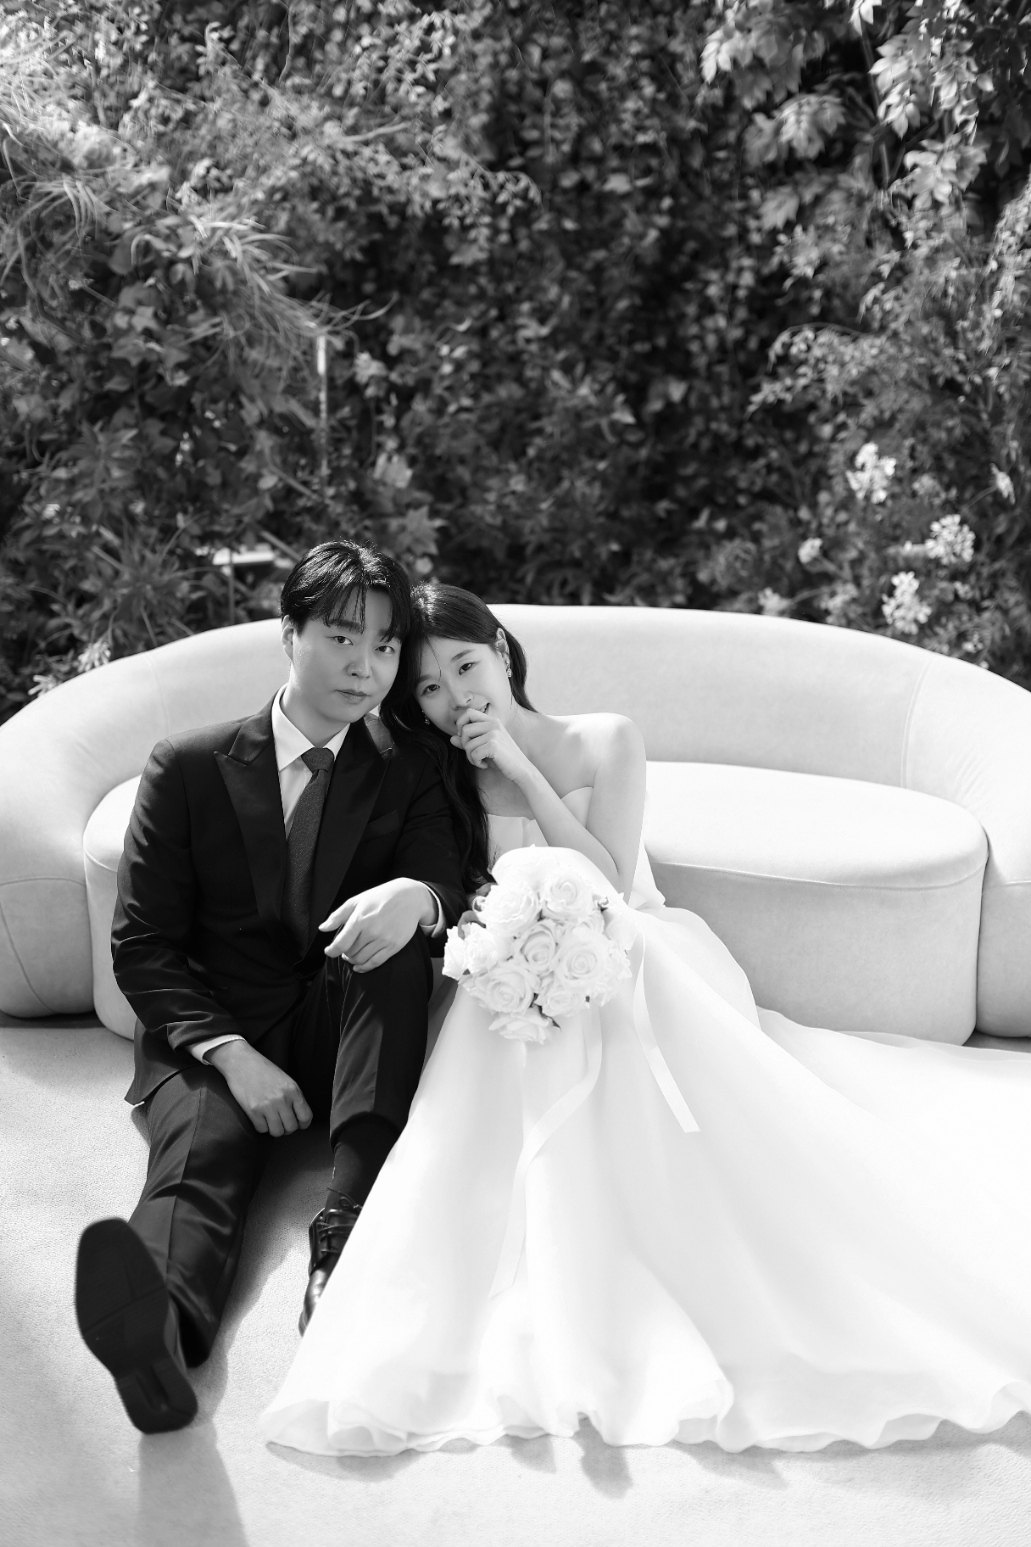
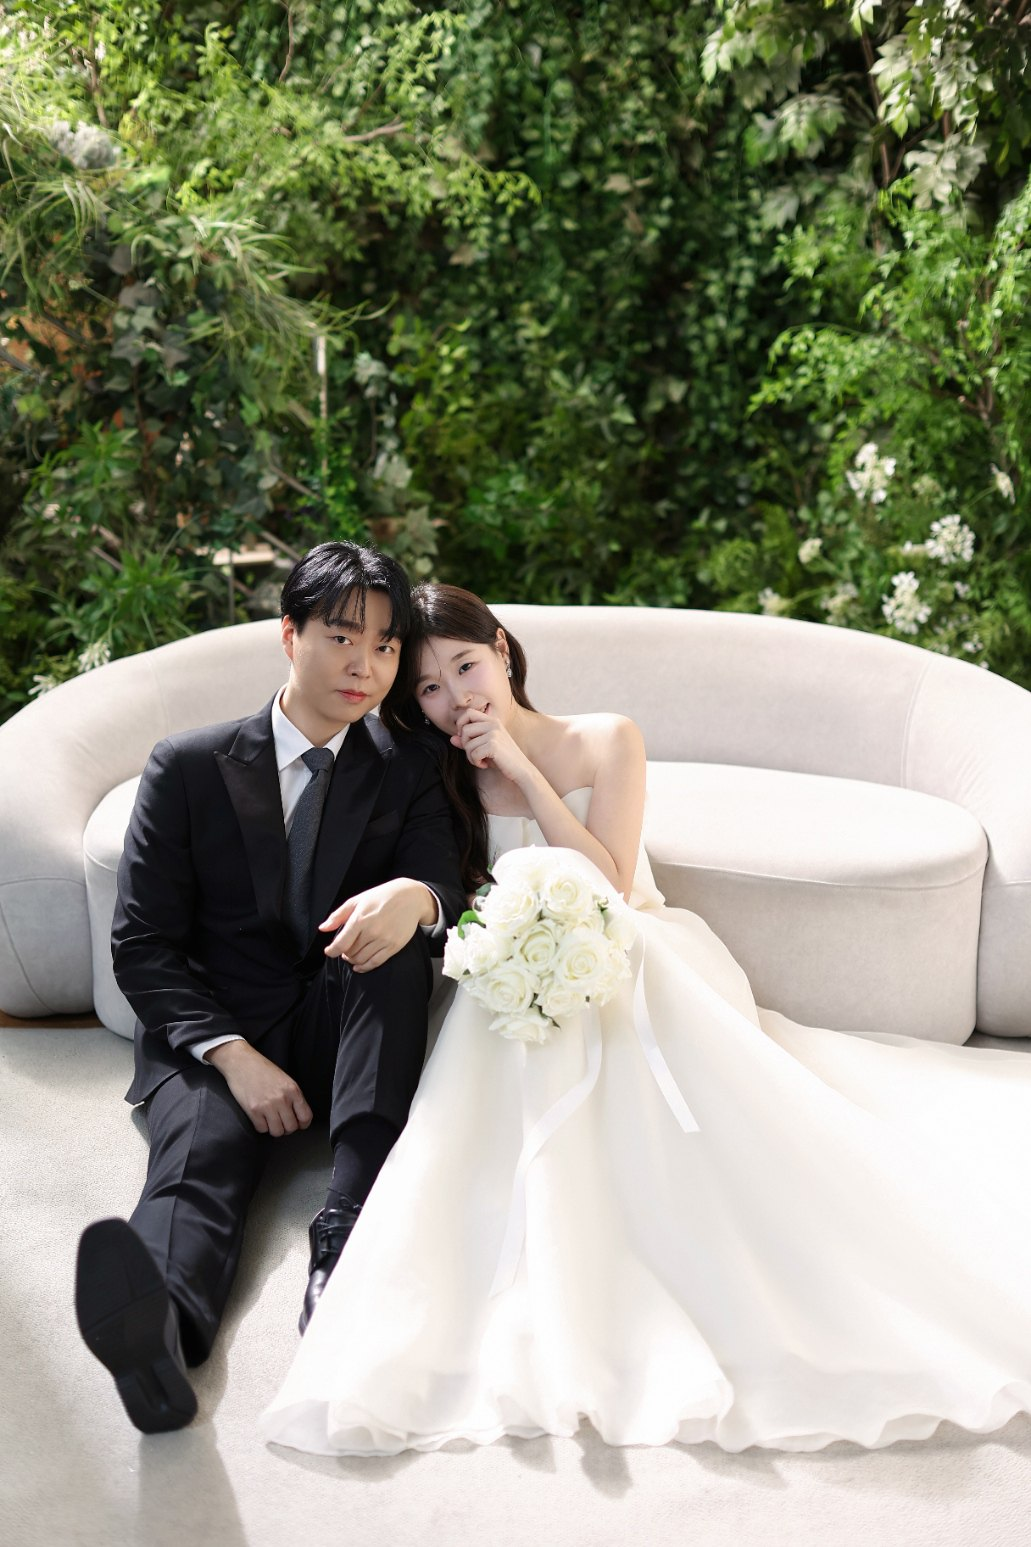
Move the black and white treatment to gal7
The two files were renamed at source, so the colour studio shot with the
pink and yellow flowers now arrives as gal7. gal6 - the couple on the couch
against the greenery - goes back to colour.

Changed region(s): [[0.0, 0.0, 1.0, 0.6516], [0.2483, 0.6826, 0.2793, 0.7136]]

diff --git a/js/config.js b/js/config.js
@@ -72,7 +72,7 @@ const CONFIG = {
   },
 
   // 흑백으로 바꿔서 저장할 사진 (add_photos.py 실행 시 적용)
-  monochrome: ["gal6.jpg"],
+  monochrome: ["gal7.jpg"],
 
   gallery: [
     "gal1.jpg",
